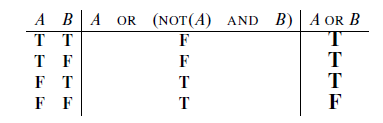
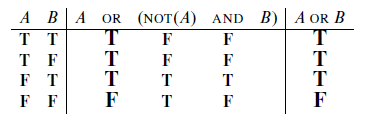
GitBook: [master] 221 pages and 3 assets modified

diff --git a/abstract/contents.md b/abstract/contents.md
@@ -131,6 +131,7 @@ description: 点击标题可以跳转到对于页面
 * \*\*\*\*[**4.1.1 一些流行的集合**](https://finit-xu.gitbook.io/msc20180606/i-proofs/4-mathematical-data-types/4.1-sets/4.1.1-some-popular-sets)
 * \*\*\*\*[**4.1.2 比较和组合集合**](https://finit-xu.gitbook.io/msc20180606/i-proofs/4-mathematical-data-types/4.1-sets/4.1.2-comparing-and-combining-sets)
 * \*\*\*\*[**4.1.3 幂集合**](https://finit-xu.gitbook.io/msc20180606/i-proofs/4-mathematical-data-types/4.1-sets/4.1.3-power-set)
+* \*\*\*\*[**4.1.4 集合建构式符号**](https://finit-xu.gitbook.io/msc20180606/i-proofs/4-mathematical-data-types/4.1-sets/4.1.4-set-builder-notation)
 
 \*\*\*\*
 

diff --git a/i-proofs/3-logical-formulas/3.2-propositional-logic-in-computer-programs/3.2.1-truth-table-calculation.md b/i-proofs/3-logical-formulas/3.2-propositional-logic-in-computer-programs/3.2.1-truth-table-calculation.md
@@ -12,5 +12,15 @@
 
 这些值足够填满另外两列：
 
-![&#x622A;&#x56FE;](../../../.gitbook/assets/image%20%2812%29.png)
+![&#x622A;&#x56FE;](../../../.gitbook/assets/image%20%2813%29.png)
+
+现在我们用必要的值填充“与”列：
+
+![&#x622A;&#x56FE;](../../../.gitbook/assets/image%20%2814%29.png)
+
+并且为第一个“或”提供必要的值给剩余的列：
+
+![&#x622A;&#x56FE;](../../../.gitbook/assets/image%20%2811%29.png)
+
+
 
